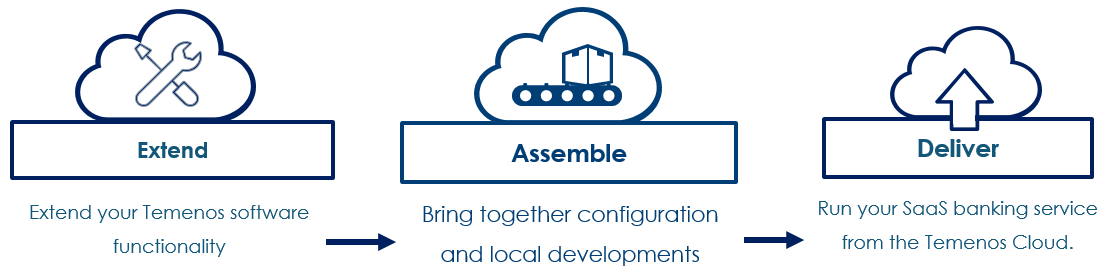
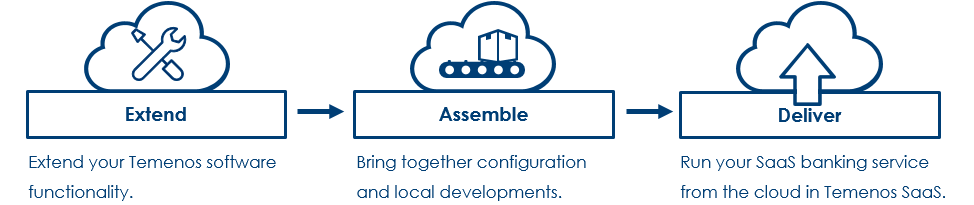
updated

diff --git a/docfx_project/home/overview.md b/docfx_project/home/overview.md
@@ -1,12 +1,11 @@
 ## **What is Temenos Continuous Deployment?**
 
-Temenos Continuous Deployment is a product within the Temenos Cloud suite, and is cloud based infrastructure for use during development, test, implementation, and ongoing change with configurable and scalable Temenos Suites on-demand, unless otherwise stated. Temenos Continuous Deployment enables you to create Environments, i.e. Temenos Suites on-demand, for non-production use in the cloud. Environments can be requested and provisioned within minutes rather than weeks helping you accelerate your projects. Retail Suite is readily available, with all other Temenos Suites (Corporate, Wealth, Micro-Finance and Islamic Banking) available on request and allows you to develop and test your proof of concept, share development environments across dispersed teams, replicate production environments or use them for training. The speed, reliability, and agility of these environments will instantly add value to your implementation and scale your project delivery capacity.
+Temenos Continuous Deployment is a cloud based infrastructure used during development, test, implementation, and ongoing change with configurable and scalable Temenos Suites on-demand, unless otherwise stated. Temenos Continuous Deployment enables you to create Environments, i.e. Temenos Suites on-demand, for non-production use in the cloud. Environments can be requested and provisioned within minutes rather than weeks helping you accelerate your projects. Retail Suite is readily available, with all other Temenos Suites (Corporate, Wealth, Micro-Finance and Islamic Banking) available on request and allows you to develop and test your proof of concept, share development environments across dispersed teams, replicate production environments or use them for training. The speed, reliability, and agility of these environments will instantly add value to your implementation and scale your project delivery capacity.
 
-What is Temenos Continuous Deployment?
-Temenos Continuous Deployment is an offering from Temenos Cloud that provides client individuals and teams with the ability to manage, configure and assemble client licensed Temenos Software – either fully deployed and supported by Temenos Cloud or utilising the client’s own cloud infrastructure.
+Temenos Continuous Deployment is an offering that provides client individuals and teams with the ability to manage, configure and assemble client licensed Temenos Software – either fully deployed and supported by Temenos SaaS or utilising the client’s own cloud infrastructure.
 
 
-## **The Temenos Cloud Offering**
+
 
 ![](./images/cloud-offering.png)
 
@@ -30,7 +29,7 @@ The Assemble service module of Temenos Continuous Deployment is used during the 
 
 **Self-service environment provisioning**
 
-- An authenticated user, e.g. a developer or tester, has the ability to request an environment from the catalogue of [templates](./temenos-cloud-templates.md); this template will be materialised into compute, storage, and networks on the Temenos Cloud. See [architecture](./architecture.md). The  administrator, e.g. the project manager, is in  control of number of the users and maximum number of running environments, thus having total control of the platform and its usage.
+- An authenticated user, e.g. a developer or tester, has the ability to request an environment from the catalogue of [templates](./temenos-cloud-templates.md); this template will be materialised into compute, storage, and networks on the Temenos SaaS See [architecture](./architecture.md). The  administrator, e.g. the project manager, is in  control of number of the users and maximum number of running environments, thus having total control of the platform and its usage.
 
 **Secure configuration and environment management**
 
@@ -70,7 +69,7 @@ An environment is an instance of an application and the platform provides the fa
 
 The users of the platform can provision and manage the environments within their Organisation.
 
-Please check [**here**](./techguides/environment-creation-in-paas.md) for more details about Temenos Cloud management of Organisations and Environments.
+Please check [**here**](./techguides/environment-creation-in-paas.md) for more details about Temenos SaaS management of Organisations and Environments.
 
 **Templates**
 

diff --git a/docfx_project/home/tcd-hosting-options.md b/docfx_project/home/tcd-hosting-options.md
@@ -8,25 +8,25 @@ The Temenos Continuous Deployment platform has two distinct deployment domains a
  the “Target Cloud” where the T24 environments are provisioned.
 
 <br>There are a number of options:
-<br>&nbsp; &nbsp;1. All hosted on Temenos Cloud - this is Azure;
-<br>&nbsp; &nbsp;2. The Platform component is hosted on Temenos Cloud. The Target Cloud is a bank’s public cloud - the hybrid model (target cloud is an Azure subscription owned by the bank);  <br />
+<br>&nbsp; &nbsp;1. All hosted on Temenos SaaS - this is Azure;
+<br>&nbsp; &nbsp;2. The Platform component is hosted on Temenos SaaS. The Target Cloud is a bank’s public cloud - the hybrid model (target cloud is an Azure subscription owned by the bank);  <br />
 &nbsp; &nbsp;3. All hosted on the bank’s cloud - all hosted on the bank’s AWS account.  <br />
 
 <br>
 The advantages of the various offerings:
-<br>&nbsp; &nbsp;&nbsp; &nbsp;&nbsp; &nbsp;**a) Temenos hosted**  - this is a full-service SaaS offering with Support desk, monitoring, SLAs. The bank benefits from the regular rollout of new features. There are no technical pre-requisites to use the service. A service/hosting agreement is required with Temenos Cloud.  
+<br>&nbsp; &nbsp;&nbsp; &nbsp;&nbsp; &nbsp;**a) Temenos hosted**  - this is a full-service SaaS offering with Support desk, monitoring, SLAs. The bank benefits from the regular rollout of new features. There are no technical pre-requisites to use the service. A service/hosting agreement is required with Temenos SaaS.  
 <br>&nbsp; &nbsp;&nbsp; &nbsp;&nbsp; &nbsp;**b) The Hybrid model** - Temenos hosts the platform, but the T24 (or other Temenos applications) are spun up in a bank-owned cloud environment. The bank still gets support desk and benefits from the regular rollout of new platform features. This option is more complex and has a number of technical pre-requisites to use the service. To provision on the bank’s Azure cloud, the bank needs to provide:
 <br>&nbsp; &nbsp;&nbsp;&nbsp;&nbsp;&nbsp;&nbsp;&nbsp;&nbsp;&nbsp;&nbsp; &nbsp;&nbsp; &nbsp;I. a Subscription; 
 <br>&nbsp;&nbsp;&nbsp;&nbsp;&nbsp;&nbsp;&nbsp;&nbsp;&nbsp; &nbsp;&nbsp; &nbsp;&nbsp; &nbsp;II. a Service Principal; 
 <br>&nbsp;&nbsp;&nbsp;&nbsp;&nbsp;&nbsp;&nbsp;&nbsp;&nbsp; &nbsp;&nbsp; &nbsp;&nbsp; &nbsp;III. a Resource Group to which the Service Principal had full privileges;
 <br>&nbsp;&nbsp;&nbsp;&nbsp;&nbsp;&nbsp;&nbsp;&nbsp;&nbsp; &nbsp;&nbsp; &nbsp;&nbsp; &nbsp;IV. B2B collaboration with the bank’s AAD for the subscription. 
-<br>We  require the subscription to be dedicated to sole use for TCD environments. A service agreement is required with Temenos Cloud for the use of the platform component. The bank will be billed directly by their cloud provider for the infrastructure used in their cloud.
+<br>We  require the subscription to be dedicated to sole use for TCD environments. A service agreement is required with Temenos SaaS for the use of the platform component. The bank will be billed directly by their cloud provider for the infrastructure used in their cloud.
 Provisioning to the bank’s AWS account is a bespoke configuration and the Temenos team needs to work through the setup and pre-requisites with the bank.<br>
 <br>&nbsp; &nbsp;&nbsp; &nbsp;&nbsp; &nbsp;**c) The bank runs it all on their public cloud (AWS or Azure)** - there is no service element to this; the bank has full responsibility for installing and operating the platform. 
 <brbr><br><br>
 
 
-**There are two primary service models depending on whether the client is using Temenos Cloud for both the service, and the Target Cloud; or using their own cloud environment for the Target Cloud.**
+**There are two primary service models depending on whether the client is using Temenos SaaS for both the service, and the Target Cloud; or using their own cloud environment for the Target Cloud.**
 <br>
  
 &nbsp;&nbsp;&nbsp;&nbsp;&nbsp;&nbsp;&nbsp;&nbsp;&nbsp;&nbsp;&nbsp;&nbsp;&nbsp;&nbsp;&nbsp;&nbsp;&nbsp;&nbsp;&nbsp;&nbsp;&nbsp;&nbsp;&nbsp;![](./images/tcd-hosting-models.png)

diff --git a/docfx_project/index.md b/docfx_project/index.md
@@ -1,7 +1,7 @@
 <span style="color:#010466;font-weight:1000;font-size:24pt">Welcome to Temenos Continuous Deployment</span>
 
 
-**Temenos Continuous Deployment** is a suite of products offered by Temenos Cloud; it is a *Platform as a Service (PaaS)* that provides individuals and teams with the ability to manage and configure their own instances of Temenos applications and approved 3rd party Plug & Play applications from the Temenos ecosystem. 
+**Temenos Continuous Deployment** is an offering that provides individuals and teams with the ability to manage and configure their own instances of Temenos applications and approved 3rd party Plug & Play applications from the Temenos ecosystem. 
 
 
 <br>
@@ -40,7 +40,7 @@
 &nbsp;
 <span style="color:#010466;font-weight:1000;font-size:16pt">Extend</span>
 
-The Extend module of the TCD is used by the ‘change the bank’ teams for self-service management of Environments and provides access to the tools for enhancing Temenos solutions.  The Extend module is an online software portal, which enables authorised Extends to provision Environments from a list of Templates.  These Environments are for non-production use during development, test, integration, implementation, phases and ongoing changes to the Products.  Self service provisioning of Environments, within minutes rather than weeks, can help accelerate development and ongoing change.  Temenos is able to create production like Templates for any of the Temenos Product Suites (Retail, Corporate, Wealth, Micro-Finance, and Islamic Banking).  This production like Environments enable the Client to develop and test more realistically at proof of concept, demonstrate more representative enhancements across their teams, and perform more life-like scenarios within training.  The speed, reliability, and agility of these Environments will instantly add value to Client’s implementation of Temenos Products and scale your project delivery capacity.  
+The Extend module of the Temenos Continuous Deployment Paltform is used by the ‘change the bank’ teams for self-service management of Environments and provides access to the tools for enhancing Temenos solutions.  The Extend module is an online software portal, which enables authorised Extends to provision Environments from a list of Templates.  These Environments are for non-production use during development, test, integration, implementation, phases and ongoing changes to the Products.  Self service provisioning of Environments, within minutes rather than weeks, can help accelerate development and ongoing change.  Temenos is able to create production like Templates for any of the Temenos Product Suites (Retail, Corporate, Wealth, Micro-Finance, and Islamic Banking).  This production like Environments enable the Client to develop and test more realistically at proof of concept, demonstrate more representative enhancements across their teams, and perform more life-like scenarios within training.  The speed, reliability, and agility of these Environments will instantly add value to Client’s implementation of Temenos Products and scale your project delivery capacity.  
 
 Service Definition - Find out more <span style="color:#010466;font-weight:1000;font-size:14pt"><a href="./home/extend.md" target="blank">**here**</a></span>.
 
@@ -63,7 +63,7 @@ Service definition - Find out more <span style="color:#010466;font-weight:1000;f
 
 This section shows the current state deployment architecture of the TCD  platform.
 
-The deployment allows for some orgs to be hosted within the Temenos cloud and others to be hosted on the Customer's Azure subscription.
+The deployment allows for some organisations to be hosted within the Temenos SaaS and others to be hosted on the Customer's Azure subscription.
 
 ![](./images/deployment-architecture.png)
 *Figure : Deployment View*

diff --git a/docfx_project/home/what-is-devx.md b/docfx_project/home/what-is-devx.md
@@ -1,3 +1,3 @@
 ## What is Temenos Development Platform?
 
-Development Platform is a product within the Temenos Cloud suite, and is cloud based infrastructure for use during development, test, implementation, and ongoing change with configurable and scalable Temenos Suites on-demand, unless otherwise stated. Development Platform enables you to create Environments, i.e. Temenos Suites on-demand, for non-production use in the cloud. Environments can be requested and provisioned within minutes rather than weeks helping you accelerate your projects. Retail Suite is readily available, with all other Temenos Suites (Corporate, Wealth, Micro-Finance and Islamic Banking) available on request and allows you to develop and test your proof of concept, share development environments across dispersed teams, replicate production environments or use them for training. The speed, reliability, and agility of these environments will instantly add value to your implementation and scale your project delivery capacity.
+Development Platform is a product within the Temenos SaaS suite, and is cloud based infrastructure for use during development, test, implementation, and ongoing change with configurable and scalable Temenos Suites on-demand, unless otherwise stated. Development Platform enables you to create Environments, i.e. Temenos Suites on-demand, for non-production use in the cloud. Environments can be requested and provisioned within minutes rather than weeks helping you accelerate your projects. Retail Suite is readily available, with all other Temenos Suites (Corporate, Wealth, Micro-Finance and Islamic Banking) available on request and allows you to develop and test your proof of concept, share development environments across dispersed teams, replicate production environments or use them for training. The speed, reliability, and agility of these environments will instantly add value to your implementation and scale your project delivery capacity.

diff --git a/docfx_project/home/extend.md b/docfx_project/home/extend.md
@@ -20,9 +20,9 @@ Extend to allow for developers to create features and continuously improve and b
 
 ## Extend Proposition: ##
 
-Temenos Cloud Extend gives you the ability to leverage the extensive list of published Temenos APIs to integrated to other systems, make commercially differentiating system extensions and engage in the Fintech ecosystem. Temenos Cloud Extend gives you access to cloud based, self-provisioned, self-managed environments populated with configurable and scalable Temenos software. Test your proof of concept, share development environments across dispersed teams, replicate production environments or use them for training. The speed, reliability, and agility of these environments will instantly add value to your implementation and scale your project delivery capacity.
+The Extend module gives you the ability to leverage the extensive list of published Temenos APIs to integrated to other systems, make commercially differentiating system extensions and engage in the Fintech ecosystem. Extend provides you access to cloud based, self-provisioned, self-managed environments populated with configurable and scalable Temenos software. Test your proof of concept, share development environments across dispersed teams, replicate production environments or use them for training. The speed, reliability, and agility of these environments will instantly add value to your implementation and scale your project delivery capacity.
 
-Extend is designed and built for specific needs of the banking and financial service industry, and comes with the full support of the Temenos Cloud team, whether or not you use the Temenos Cloud or a self-provided cloud subscription.
+Extend is designed and built for specific needs of the banking and financial service industry, and comes with the full support of the Temenos SaaS team, whether or not you use the Temenos SaaS or a self-provided cloud subscription.
 
 
 

diff --git a/docfx_project/home/assemble.md b/docfx_project/home/assemble.md
@@ -17,9 +17,9 @@ Bring together configuration and local developments, with published versions of 
 
 ## Assemble Proposition: ##
 
-Temenos Cloud Extend gives you the ability to leverage the extensive list of published Temenos APIs to integrated to other systems, make commercially differentiating system extensions and engage in the Fintech ecosystem. Temenos Cloud Extend gives you access to cloud based, self-provisioned, self-managed environments populated with configurable and scalable Temenos software. Test your proof of concept, share development environments across dispersed teams, replicate production environments or use them for training. The speed, reliability, and agility of these environments will instantly add value to your implementation and scale your project delivery capacity.
+Extend gives you the ability to leverage the extensive list of published Temenos APIs to integrated to other systems, make commercially differentiating system extensions and engage in the Fintech ecosystem. Extend module provides you access to cloud based, self-provisioned, self-managed environments populated with configurable and scalable Temenos software. Test your proof of concept, share development environments across dispersed teams, replicate production environments or use them for training. The speed, reliability, and agility of these environments will instantly add value to your implementation and scale your project delivery capacity.
 
-Extend is designed and built for specific needs of the banking and financial service industry, and comes with the full support of the Temenos Cloud team, whether or not you use the Temenos Cloud or a self-provided cloud subscription.
+Extend is designed and built for specific needs of the banking and financial service industry, and comes with the full support of the Temenos SaaS team, whether or not you use the Temenos SaaS or a self-provided cloud subscription.
 
 
 

diff --git a/docfx_project/home/techguides/components-products.md b/docfx_project/home/techguides/components-products.md
@@ -1,11 +1,11 @@
 # Components – Feature Description #
 
 
-Components are individually deployable units that are understood by TCP (Temenos Cloud Platform) based on the component type that each component refers to. 
+Components are individually deployable units that are understood by Temenos Continuous Deployment Platform based on the component type that each component refers to. 
 
-Each component is associated to a component type to help TCP deploy the component. 
+Each component is associated to a component type to help Temenos Continuous Deployment Platform deploy the component. 
 
-The **Component Type** field in the component data is the key to help the TCP Controllers deploy the right components in the right way. 
+The **Component Type** field in the component data is the key to help the Temenos Continuous Deployment Platform Controllers deploy the right components in the right way. 
 An organization can define as many components as needed but should have all mandatory components defined in the templates that are assigned to the organization.
 
 Practically when a template is assigned to an organization, a list of component types related to that template is added for that organization.
@@ -33,7 +33,7 @@ The T24 installation may have the following components (No exhaustive or inclusi
 
 Each item in this list is called a **component type**. 
 
-The names of these parts / Component Types are fixed and are not user editable. This is managed internally by the TCP admin/ development group and can only be changed or modified by this group. 
+The names of these parts / Component Types are fixed and are not user editable. This is managed internally by the Temenos Continuous Deployment Platform admin/ development group and can only be changed or modified by this group. 
 
 Each component type represents a deployable unit and has an ansible script associated to it. 
 

diff --git a/docfx_project/home/techguides/fcm-configuration.md b/docfx_project/home/techguides/fcm-configuration.md
@@ -1,6 +1,6 @@
 # Configure FCM Application
 
-Learn how to use FCM application by accessing it via Temenos Cloud Platform.
+Learn how to use FCM application by accessing it via Temenos Continuous Deployment Platform.
     
 > [!Note]
 > Check also our <a href="https://www.youtube.com/watch?v=XBsmOZvg-z8" target="_blank">**Video tutorial** - to be updated.
@@ -9,7 +9,7 @@ Learn how to use FCM application by accessing it via Temenos Cloud Platform.
 
 ## About FCM Template   
 
- - Login to your organization on the Temenos Cloud Platform ([https://portal.temenos.cloud/](https://portal.temenos.cloud/)) using the username and password provided by the Temenos team
+ - Login to your organization on the Temenos Continuous Deployment Platform ([https://portal.temenos.cloud/](https://portal.temenos.cloud/)) using the username and password provided by the Temenos team
  - Each time you login, you must accept the Privacy Notice in order to have access to the portal
  - Click the **Templates Catalog** on the left-side menu
    - Choose **the FCM template** version from the available list to see the short description of the components and also the full template content

diff --git a/docfx_project/home/faq.md b/docfx_project/home/faq.md
@@ -4,7 +4,7 @@
 
 - **How can a customer gain access to Deployment Platform?**
 
-The client should go through the normal procurement process for a Temenos Cloud service.  Temenos regional sales. 
+The client should go through the normal procurement process for a Temenos SaaS service.  Temenos regional sales. 
 
 - **What are the minimum system requirements?**
 
@@ -16,4 +16,4 @@ The clients will be supplied with a URL and initial login, from there they will 
 
 - **Who will handle customers’ queries/issues for Deployment Platform?**
 
-Sales queries will be handled via the Temenos Cloud (CloudPlatformSupport@temenos.com) support team. Support is available through a dedicated online support portal for cloud infrastructure issues.  All Product issues remain through the Temenos Customer Support. 
+Sales queries will be handled via the Temenos SaaS (CloudPlatformSupport@temenos.com) support team. Support is available through a dedicated online support portal for cloud infrastructure issues.  All Product issues remain through the Temenos Customer Support. 

diff --git a/docfx_project/home/techguides/use-gitlab-repository.md b/docfx_project/home/techguides/use-gitlab-repository.md
@@ -1,6 +1,6 @@
 
 # Introduction #
-This document can be used by technical staff who need to deploy different features on a Temenos Cloud Environment. Each Environment has an associated Repository for uploading different type of features based on Environment Template type, these features being deployed automatically to your Environment.
+This document can be used by technical staff who need to deploy different features on a Temenos Continuous Deployment Environment. Each Environment has an associated Repository for uploading different type of features based on Environment Template type, these features being deployed automatically to your Environment.
 
 Before proceeding, please check the following requirements:
 - Make sure you have a GUI Git Client installed in your local machine. This guide uses *TortoiseGit* Git Client that can be installed from <a href="https://tortoisegit.org/download/" target="blank">here</a>.

diff --git a/docfx_project/home/techguides/customize-templates.md b/docfx_project/home/techguides/customize-templates.md
@@ -9,7 +9,7 @@ This document can be used by technical staff who need to customize already defin
 > This guide presumes that a environment is already created and available under an Organisation for which the templates customization functionality is allowed.
 
 ## Boost your environment
-To start customizing your environment built using a Temenos Cloud template, login to Temenos Continuous Deployment platform using your organisation user, go to your environment page and click on the **Boost** button attached to **Repository** application.
+To start customizing your environment built using a Temenos Continuous Deployment Platform template, login to Temenos Continuous Deployment platform using your organisation user, go to your environment page and click on the **Boost** button attached to **Repository** application.
 
 ![boost 1](./images/customize-templates-button.png)
 

diff --git a/docfx_project/home/Legal.md b/docfx_project/home/Legal.md
@@ -23,9 +23,9 @@ A secure ftp (SFTP) client is required to download exported log files and data f
 
 ##Support and SLAs
 -	Initial support mechanism: email CloudPlatformSupport@temenos.com
--	Future state support mechanism: Temenos cloud ticketing system
+-	Future state support mechanism: Temenos SaaS ticketing system
 -	SLAs: target 99% Uptime (can go down for maintenance, business hours)
--	Warranties: Other SLAs as per Temenos Cloud
+-	Warranties: Other SLAs as per Temenos SaaS
 -	Data retention: as defined in the Service Definition – data & environments can be deleted immediately by the user.  All client-related data & environments will be deleted by Temenos 60 days after the termination of the agreement.
 
 ##Definitions
